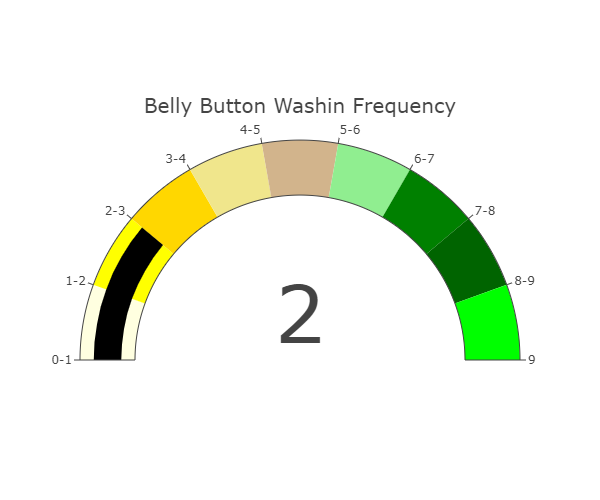
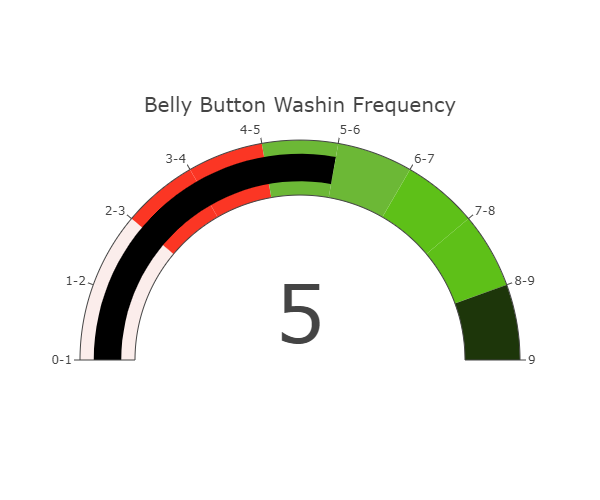
fixing horrible gauge colors

diff --git a/static/js/app.js b/static/js/app.js
@@ -204,39 +204,39 @@ function optionChanged(test_id) {
                 steps: [
                     {
                         range: [0, 1],
-                        color: 'lightyellow'
+                        color: '#FBEDEB'
                     },
                     {
                         range: [1, 2],
-                        color: 'yellow'
+                        color: '#FBEDEB'
                     },
                     {
                         range: [2, 3],
-                        color: 'gold'
+                        color: '#FB3624'
                     },
                     {
-                        range: [3, 4],
-                        color: 'khaki'
+                        range: [3, 4],  
+                        color: '#FB3624'
                     },
                     {
                         range: [4, 5],
-                        color: 'tan'
+                        color: '#6CB836'
                     },
                     {
                         range: [5, 6],
-                        color: 'lightgreen'
+                        color: '#6CB836'
                     },
                     {
                         range: [6, 7],
-                        color: 'green'
+                        color: '#5EC018'
                     },
                     {
                         range: [7, 8],
-                        color: 'darkgreen'
+                        color: '#5EC018'
                     },
                     {
                         range: [8, 9],
-                        color: 'lime'
+                        color: '#1D360A'
                     }                    
                 ] 
             },
